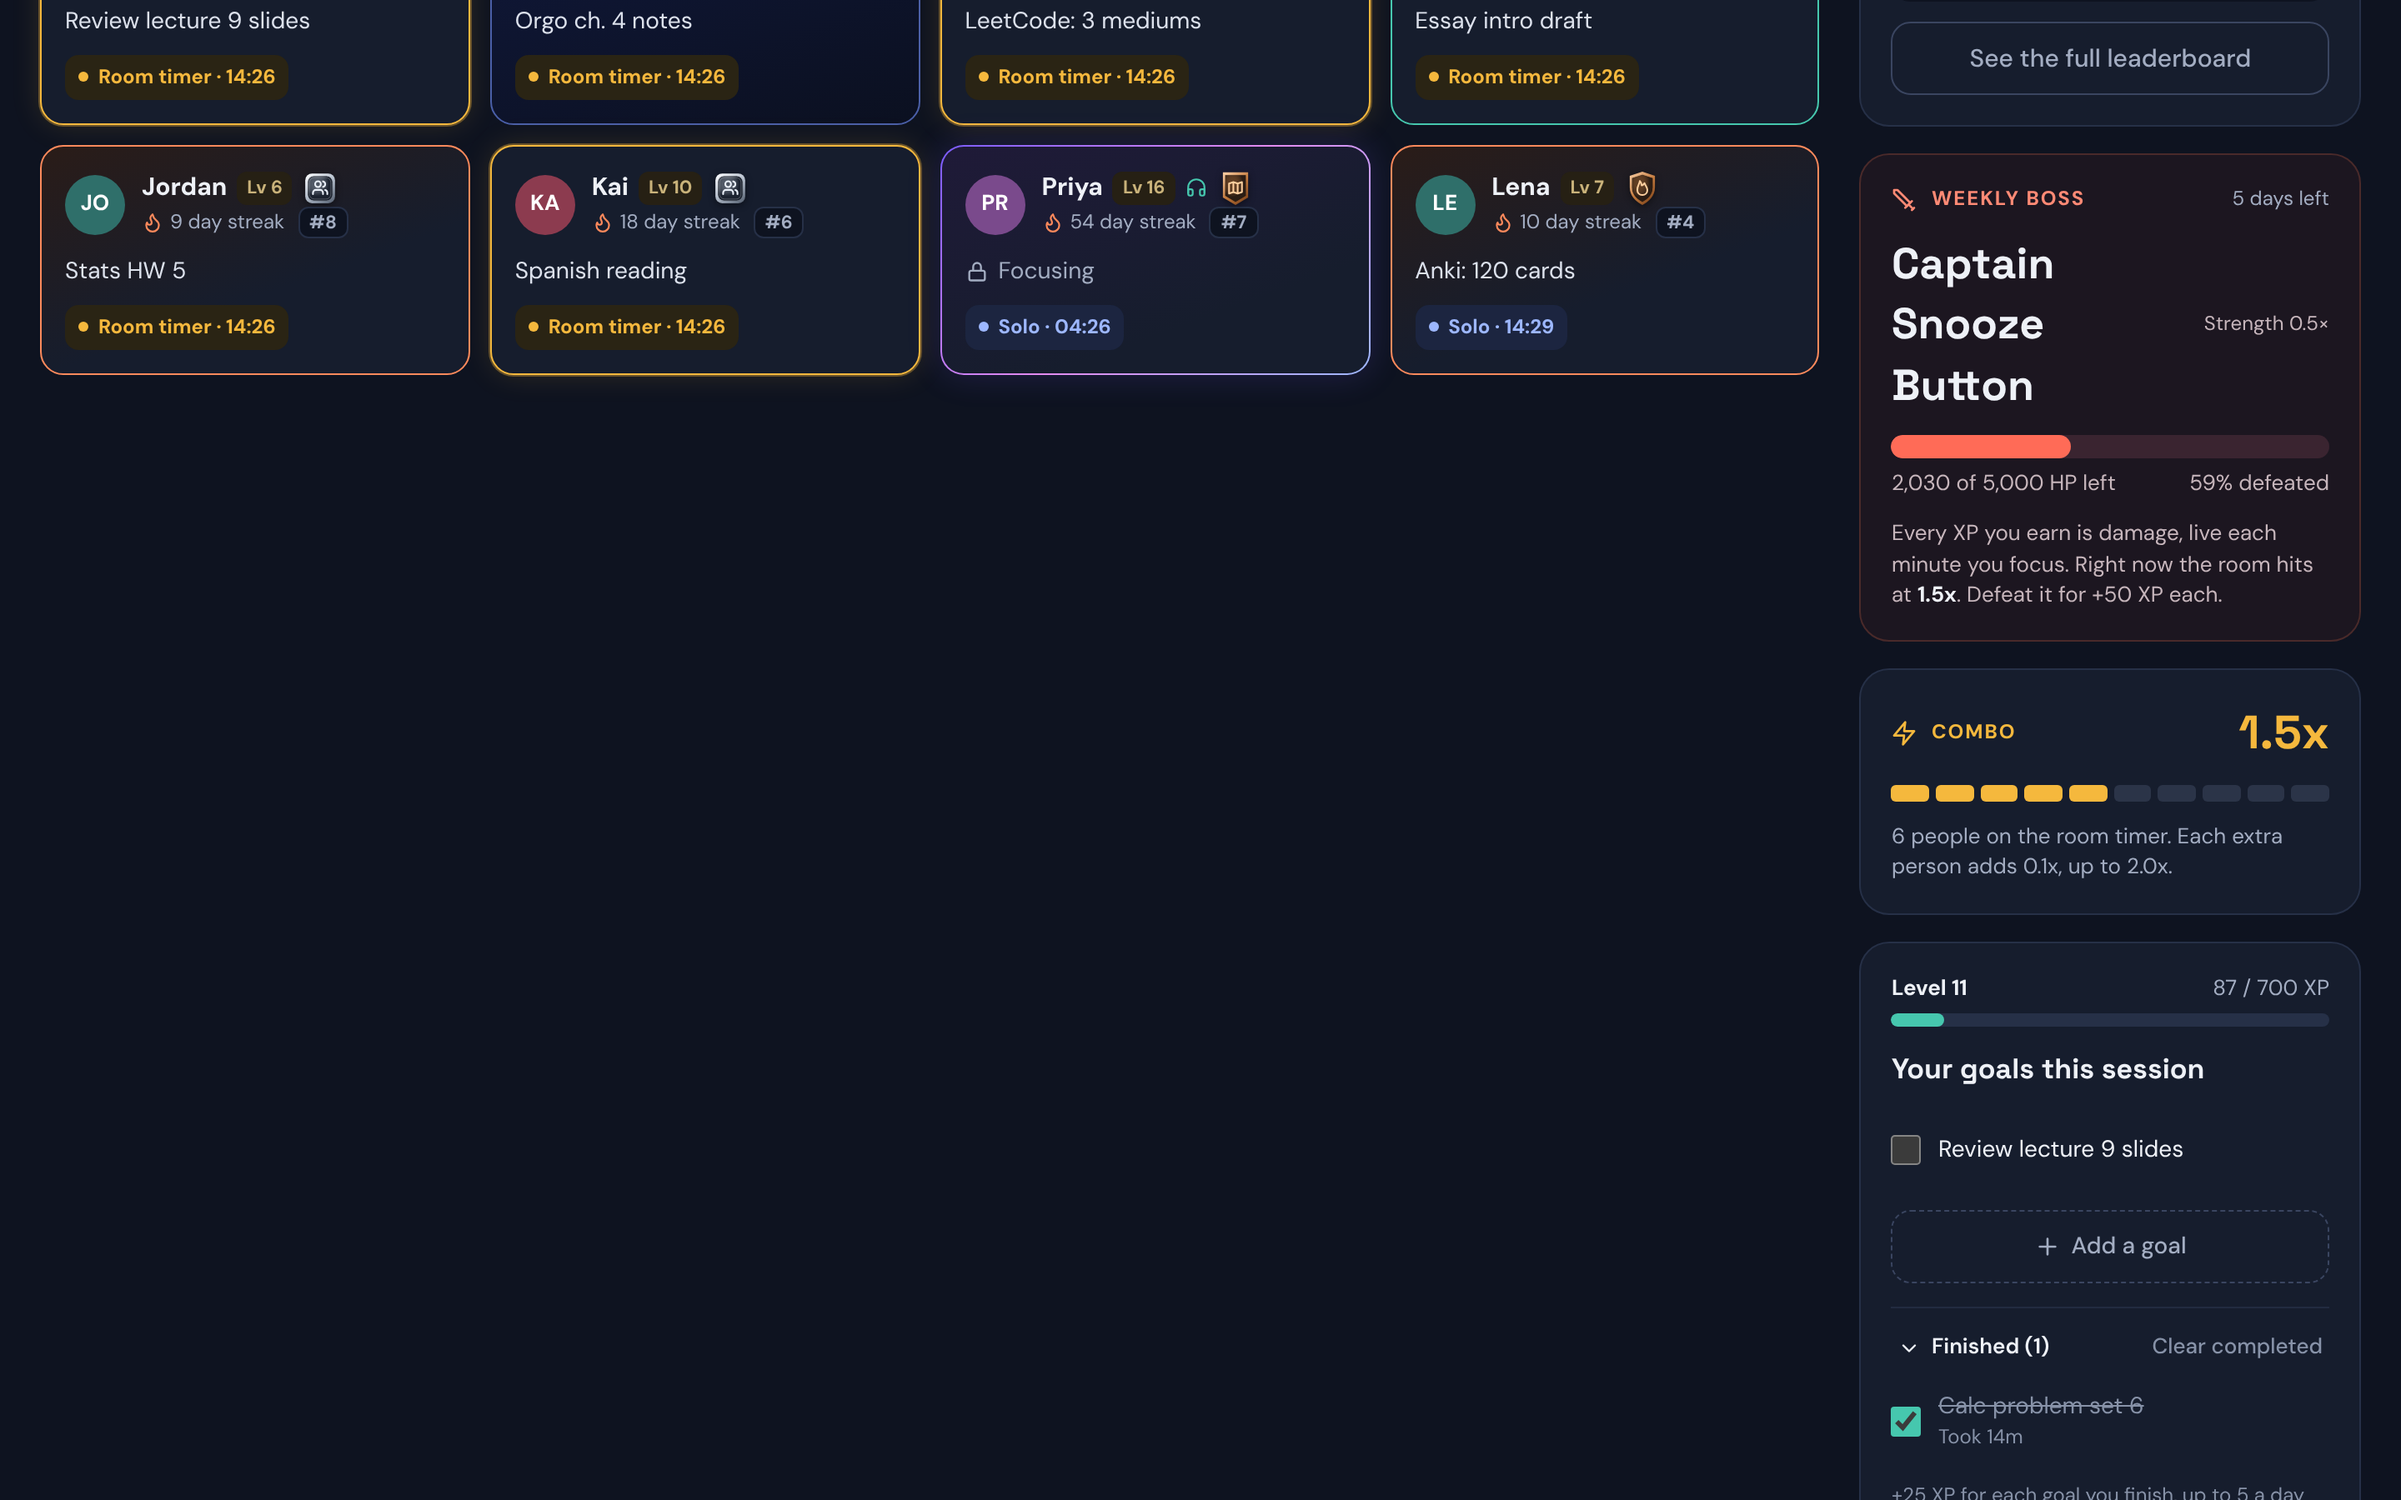
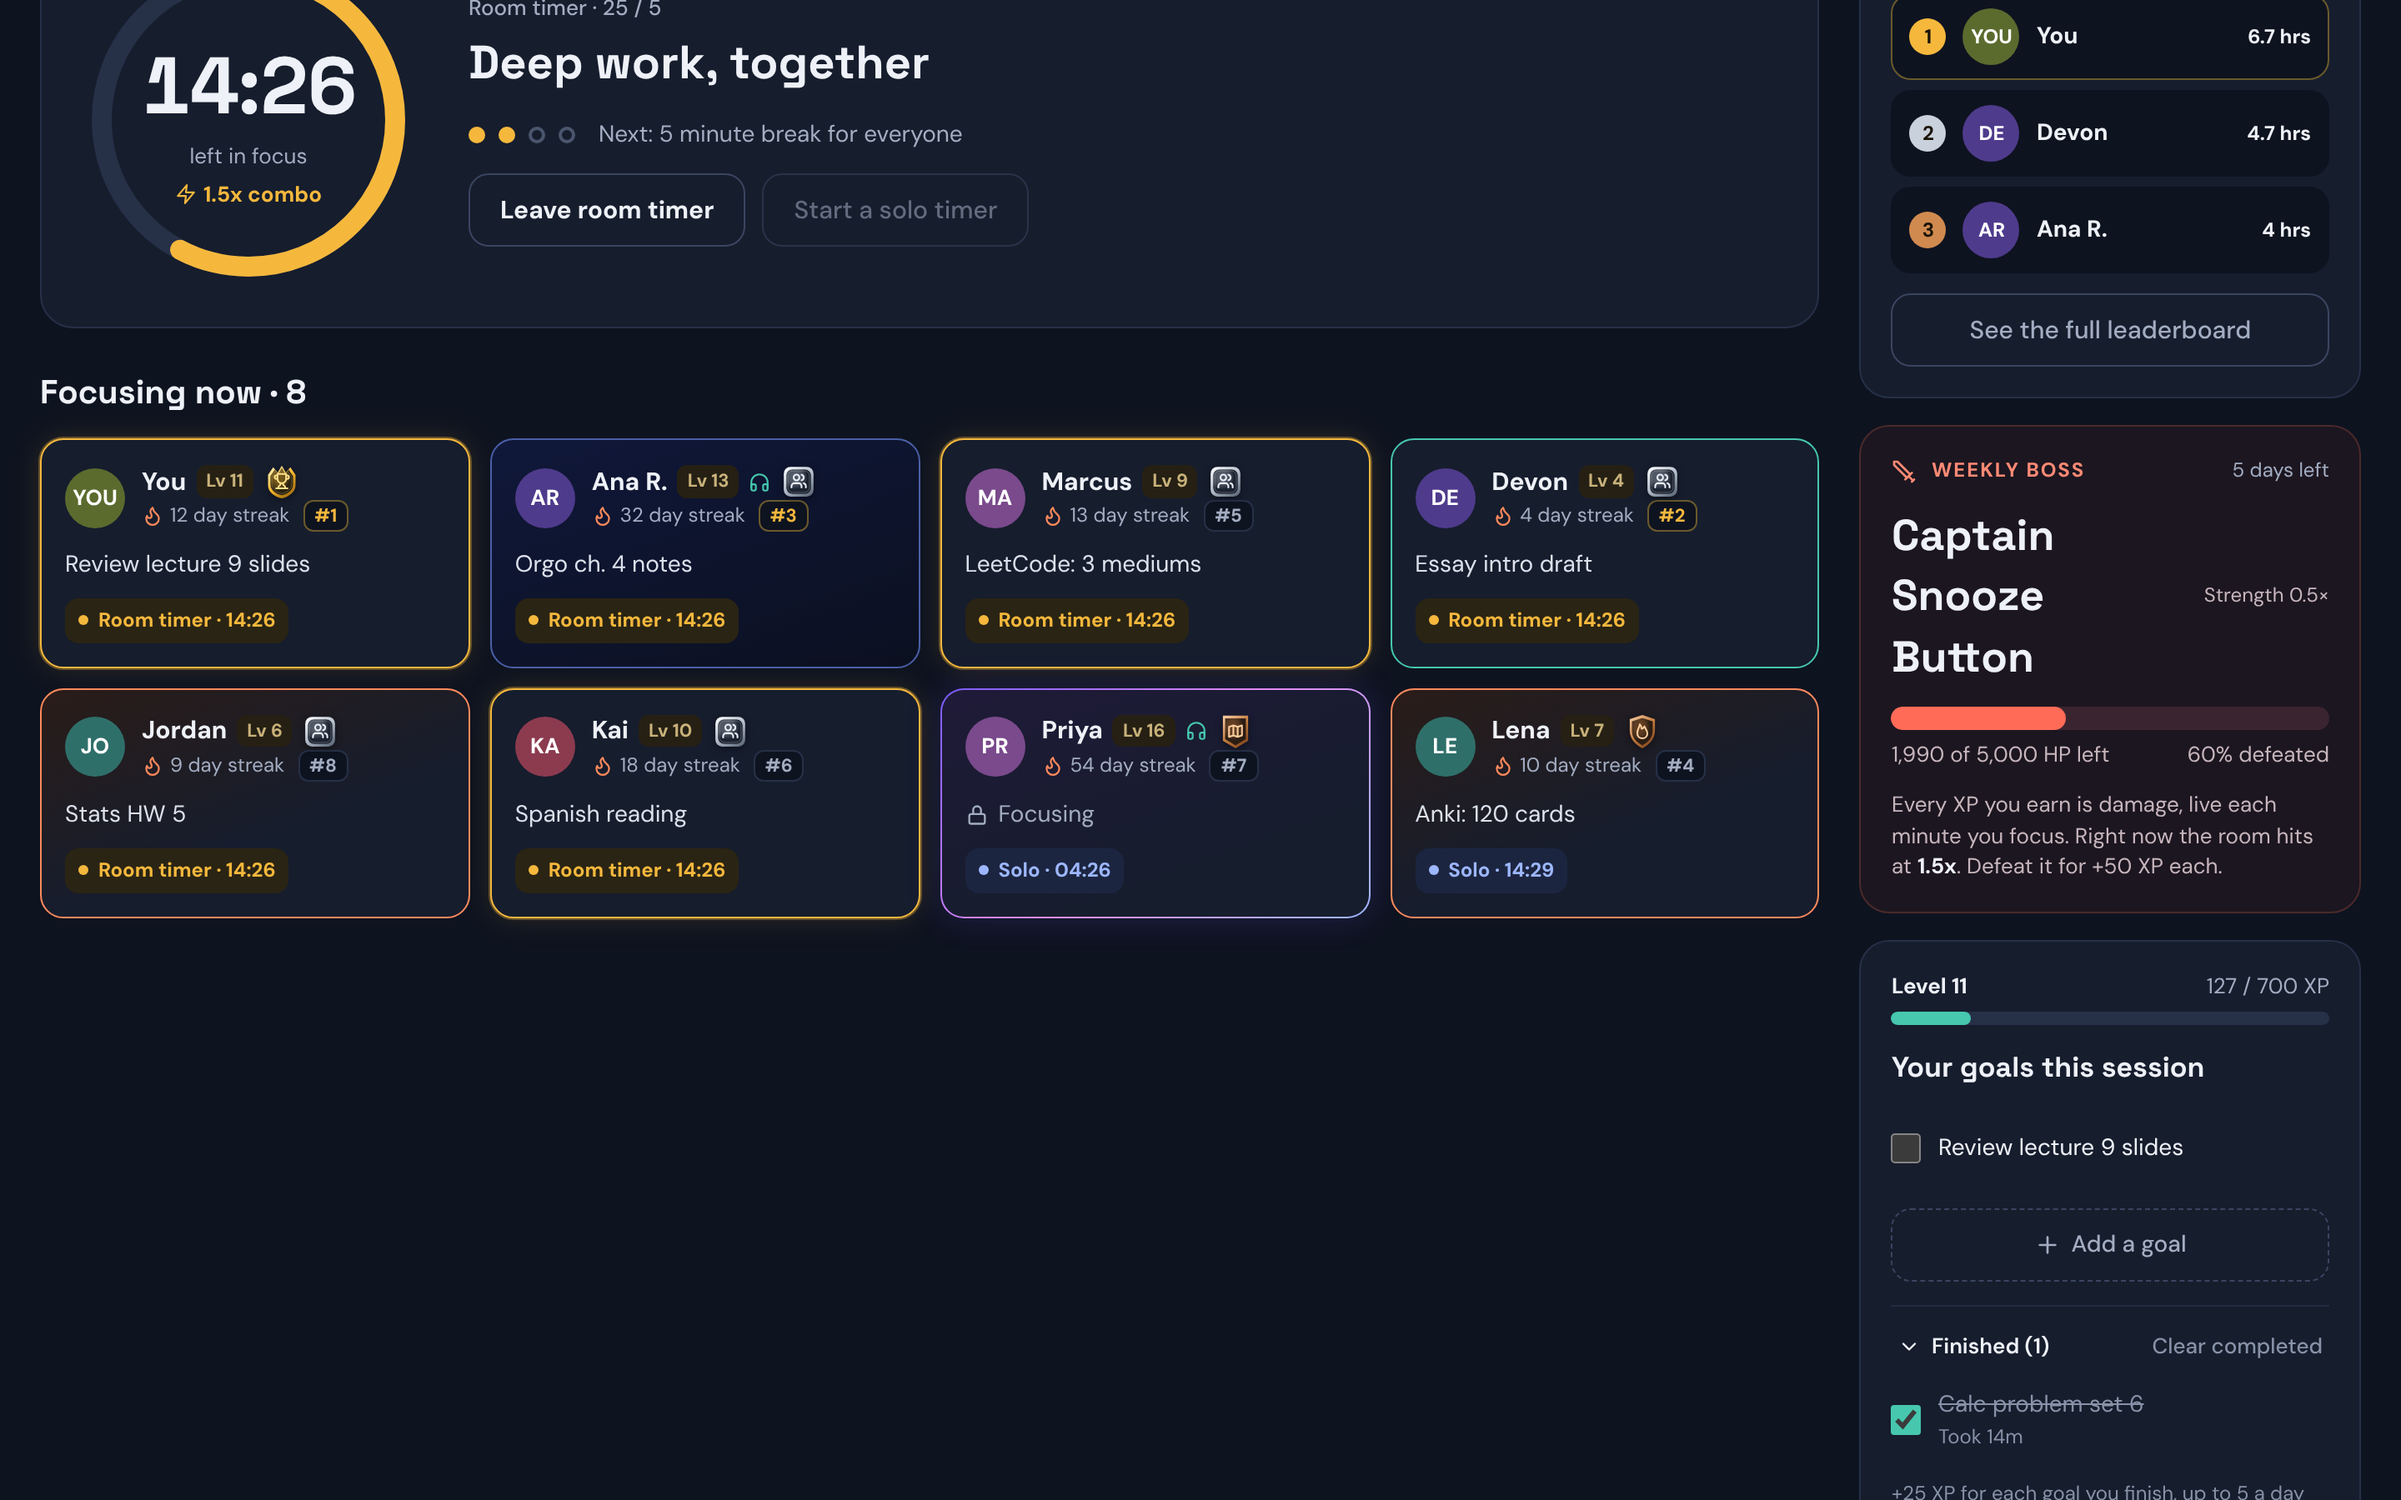
Release 0.6.0
Bump to 0.6.0, add the changelog entry (with the missing entries for
#163 to #166 and #170), update the README features and retake its
screenshots (desktop, dark).

Claude-Session: https://claude.ai/code/session_017BA9j8rYAD3LdtqLzHbtDj

diff --git a/README.md b/README.md
@@ -6,7 +6,7 @@ Study Squad is a group study timer for [Root](https://www.rootapp.com) communiti
 
 <picture>
   <source media="(prefers-color-scheme: light)" srcset="docs/screenshots/room-desktop-light.png">
-  <img src="docs/screenshots/room-desktop.png" alt="Study Squad focus room on desktop: the room timer, everyone focusing, Up next, the weekly leaderboard and the weekly boss">
+  <img src="docs/screenshots/room-desktop.png" alt="Study Squad focus room on desktop: the room timer, everyone focusing, the combo inside the timer, the weekly leaderboard and the weekly boss">
 </picture>
 
 <p>
@@ -15,7 +15,7 @@ Study Squad is a group study timer for [Root](https://www.rootapp.com) communiti
 </p>
 
 <p>
-  <img src="docs/screenshots/start-session-desktop.png" alt="Start a session: goals, private toggle, room or solo timer" width="49%">
+  <img src="docs/screenshots/start-session-desktop.png" alt="Start a session: Now and Later tabs, goals, private toggle, room timer, solo timer or a new table" width="49%">
   <img src="docs/screenshots/goals-desktop.png" alt="Your goals: edit, drag to reorder, finished goals folded with how long they took" width="49%">
 </p>
 
@@ -28,20 +28,20 @@ Study Squad is a group study timer for [Root](https://www.rootapp.com) communiti
   <img src="docs/screenshots/room-mobile.png" alt="Focus room on a phone, dark theme" width="200">
 </p>
 
-## Features (v0.5.1)
+## Features (v0.6.0)
 
 - **Shared room timer** (25/5, 50/10 or custom, rounds of 4 with a long break) and **solo timers** that still show on the board
 - **Live focus board**: who's focusing, on what, how long is left, their rank and who's in voice. Goals can be private ("Focusing")
-- **Study tables**: start a named table like "Calc II" with its own 25/5 or 50/10 timer and tap Sit here to join. Everyone at every table still counts toward the room's combo
-- **Scheduled sessions**: plan one from the Up next card, tap I'm in, and get a mention in the channel when it starts
+- **Study tables**: start a named table like "Calc II" with its own 25/5 or 50/10 timer and tap Sit here to join, all from the Start focusing sheet. Everyone at every table still counts toward the room's combo, shown inside the timer ring
+- **Scheduled sessions**: plan one from the Later tab of the Start focusing sheet, tap I'm in, and get a mention in the channel when it starts
 - **Sounds**: a music player with 20 calm lo-fi tracks (CC0) plus rain, storm, café, fireplace or forest ambience layered underneath, each with its own volume. It fades out on breaks and ships inside the app, so nothing is loaded from outside
 - **No drift**: the server stores when a cycle started; every client derives the countdown (and the countdown chirps) from that and a measured clock offset
 - **Goals list**: add, edit, drag to reorder (the top goal is the one on your card), and clear finished goals in one tap. Finished goals fold into one row and show how long they took. The first 5 goals finished each day pay +25 XP
 - **Break moment**: XP earned, streak, damage dealt to the boss, and "did you finish your goal?"
 - **Game layer**: XP and levels with no daily cap, a combo multiplier for focusing together, a weekly built-in boss with its own strength, weekly quests, over 60 medals to collect (some secret, some in their own colors) and card styles that unlock with level
-- **Big moments**: badge unlocks are short cinematics with recorded orchestral music for each tier, and when the room defeats the weekly boss everyone sees it shatter and a gold boss slayer medal rise
+- **Big moments**: badge unlocks are short cinematics with recorded orchestral music for each tier and recorded sound effects on the action, and when the room defeats the weekly boss everyone sees it shatter and a gold boss slayer medal rise
 - **Leaderboard** by focus minutes or XP, for this week, month, year or all time. Members can hide themselves
-- **Streaks without guilt**: one finished session counts the day, one free freeze per week, and days start at 4am so late nights count
+- **Streaks without guilt**: one finished session counts the day (the calendar outlines days that didn't count), one free freeze per week, and days start at 4am so late nights count
 - **Keep going?** at the end of each cycle, so a forgotten timer can't farm XP all day
 - **Voice**: admins pick the community's voice channel from a dropdown in Room settings. The room shows a Join voice button (it asks first) and headphones next to whoever is in the call
 - **Channel posts**: daily recap, "room is busy", streak milestones, boss defeats, and a squad bot that cheers on the people studying. Bot @mentions are off by default, so names are plain text unless an admin turns pings on

diff --git a/CHANGELOG.md b/CHANGELOG.md
@@ -4,18 +4,29 @@ All notable changes are listed here. The format follows [Keep a Changelog](https
 
 ## [Unreleased]
 
+## [0.6.0] - 2026-11-12
+
+Recorded sound effects for badge and boss moments, a streak calendar that shows which days counted, a tidier room, and badge polish.
+
 ### Added
 
 - Quiet recorded sound effects under the badge and boss moments, on their actions: a thud when a medal lands, whooshes as it moves, a spotlight and rising tension for gold, crackle and a lightning strike for platinum, twinkles as secret stars light, and glass when the boss card shatters. Credits are in CREDITS.md.
+- The progress calendar now outlines days that had focus time but no finished session, with a "didn't count" key. When today hasn't counted yet, a hint under the calendar says how to keep (or start) your streak.
 
 ### Fixed
 
 - The silver badge medal now lands on the music's hit. It used to arrive about half a second early.
+- On 3D platinum and secret medals, the back now lines up with the front on every shape (no offset shield or doubled gem edges).
+- Redrew the rocket (its thruster is attached and it has fins), four-leaf clover and scroll badge icons.
 
 ### Changed
 
+- A tidier room: the New table button is gone (start a table from the Start focusing sheet), scheduled sessions moved into that sheet's new Later tab (replacing the Up next card), and the combo shows inside the timer ring instead of its own card.
+- The boss card hides as soon as the boss is defeated and comes back when the next boss arrives.
 - Sound effects, chimes and the badge and boss moments now play at half the volume. The study music and ambience are unchanged.
 - The bronze badge unlock no longer starts with a jolt: the medal and its music now ease in over a one second intro.
+- Gold and platinum unlocks start as a true dark silhouette. Gold lights up as it rises; platinum stays dark until just before the hit.
+- The blue laurel around platinum badges is gone.
 
 ## [0.5.1] - 2026-11-11
 
